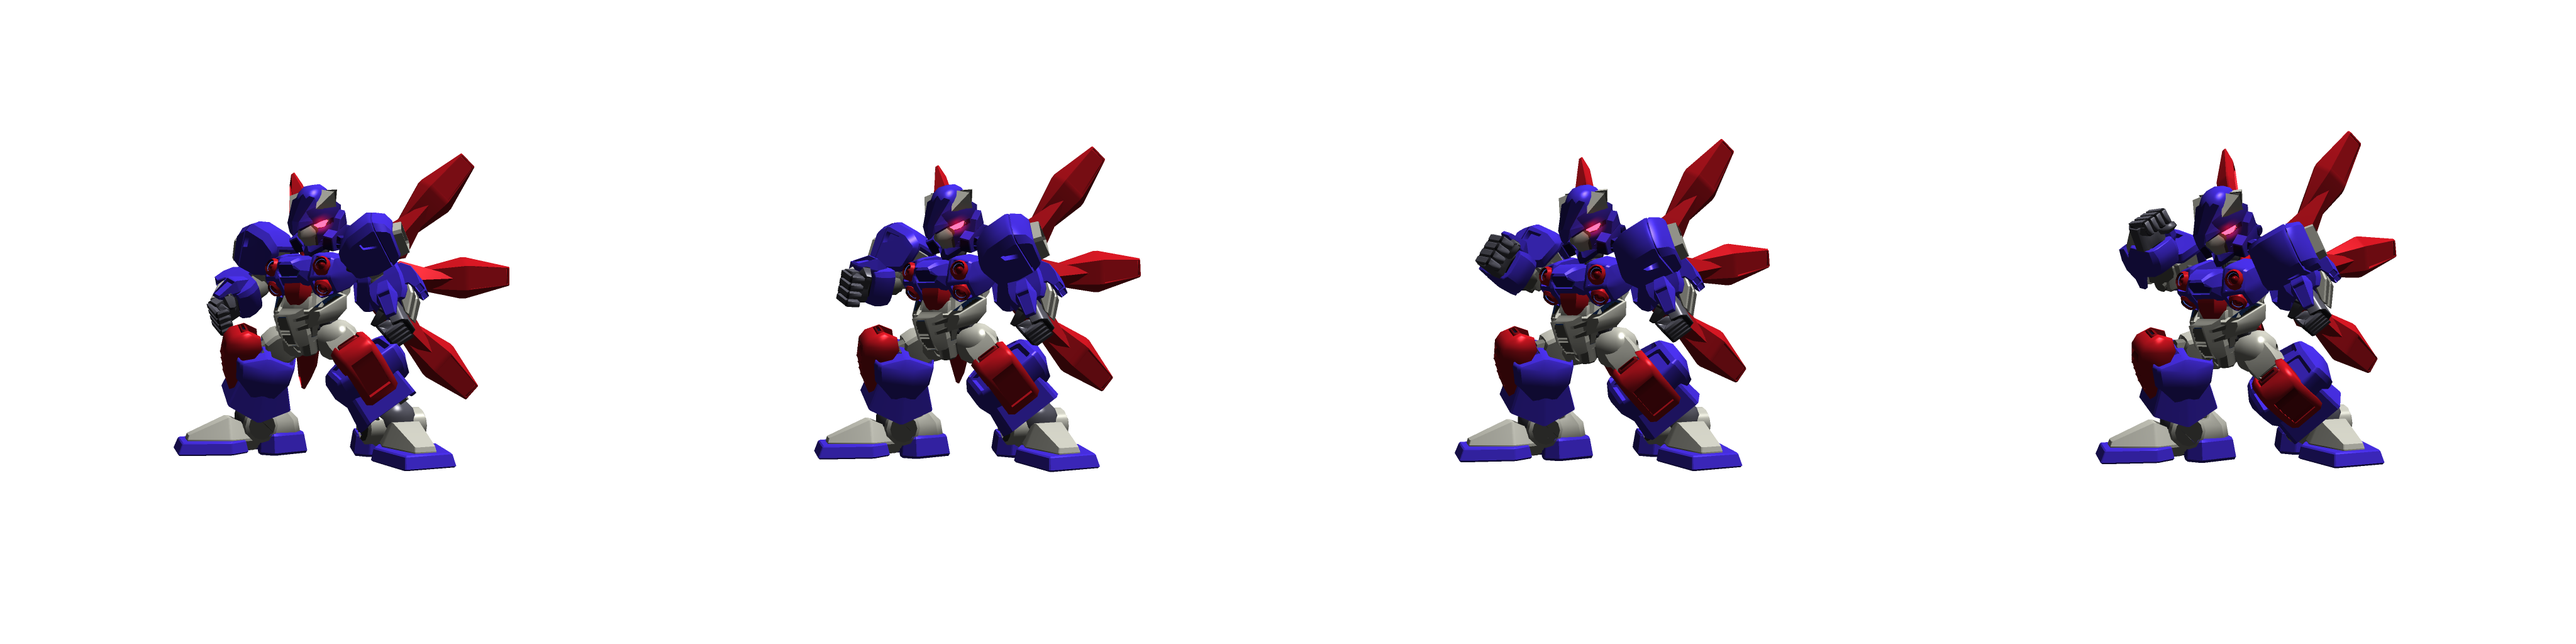
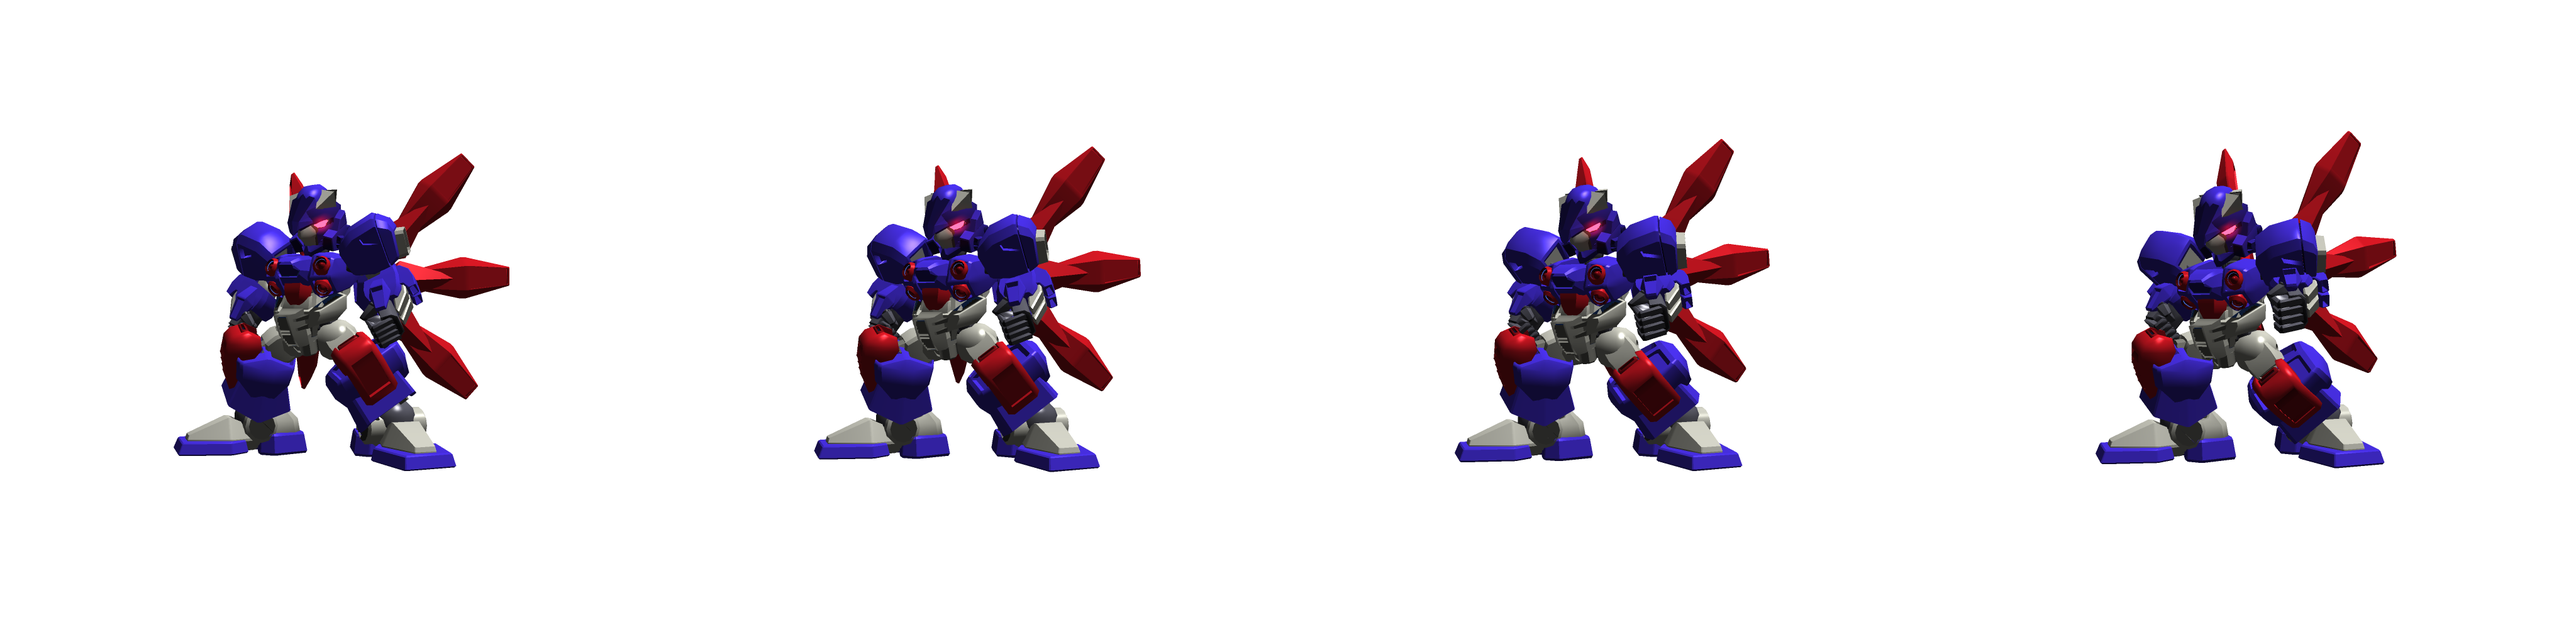
攻撃モーションを調整した

diff --git a/src/js/game/td-scenes/battle/animation/state-history/battle/attack/wing-dozer.js b/src/js/game/td-scenes/battle/animation/state-history/battle/attack/wing-dozer.js
@@ -63,19 +63,19 @@ type AttackResult = NormalHit | CriticalHit;
  * @return アニメーション
  */
 function attack(param: WingDozerBattle<AttackResult>): Animate {
-  return all(
-    param.attackerSprite.charge()
-      .chain(delay(500))
-      .chain(param.attackerSprite.upper())
-      .chain(delay(1000))
-      .chain(param.attackerSprite.upperToStand()),
+  return param.attackerSprite.charge()
+    .chain(delay(700))
+    .chain(all(
+      param.attackerSprite.upper()
+        .chain(delay(1500))
+        .chain(param.attackerSprite.upperToStand()),
 
-    delay(900)
-      .chain(all(
-        param.defenderTD.damageIndicator.popUp(param.result.damage),
-        param.defenderSprite.knockBack(),
-        param.defenderTD.hitMark.shockWave.popUp(),
-        param.defenderHUD.gauge.hp(param.defenderState.armdozer.hp)
-      ))
-  );
+      delay(100)
+        .chain(all(
+          param.defenderTD.damageIndicator.popUp(param.result.damage),
+          param.defenderSprite.knockBack(),
+          param.defenderTD.hitMark.shockWave.popUp(),
+          param.defenderHUD.gauge.hp(param.defenderState.armdozer.hp)
+        ))
+    ));
 }

diff --git a/src/js/game-object/armdozer/wing-dozer/animation/upper-to-stand.js b/src/js/game-object/armdozer/wing-dozer/animation/upper-to-stand.js
@@ -15,7 +15,7 @@ export function upperToStand(model: WingDozerModel): Animate {
   return process(() => {
     model.animation.type = 'UPPER_TO_STAND';
     model.animation.frame = 0;
-  }).chain(tween(model.animation, t => t.to({frame: 1}, 500))
+  }).chain(tween(model.animation, t => t.to({frame: 1}, 600))
   ).chain(process(() => {
     model.animation.type = 'STAND';
     model.animation.frame = 0;

diff --git a/src/js/game-object/armdozer/wing-dozer/animation/charge.js b/src/js/game-object/armdozer/wing-dozer/animation/charge.js
@@ -15,5 +15,5 @@ export function charge(model: WingDozerModel): Animate {
   return process(() => {
     model.animation.type = 'UPPER_CHARGE';
     model.animation.frame = 0;
-  }).chain(tween(model.animation, t => t.to({frame: 1}, 300)));
+  }).chain(tween(model.animation, t => t.to({frame: 1}, 200)));
 }

diff --git a/src/js/game-object/armdozer/wing-dozer/animation/upper.js b/src/js/game-object/armdozer/wing-dozer/animation/upper.js
@@ -15,5 +15,5 @@ export function upper(model: WingDozerModel): Animate {
   return process(() => {
     model.animation.type = 'UPPER_ATTACK';
     model.animation.frame = 0;
-  }).chain(tween(model.animation, t => t.to({frame: 1}, 300)));
+  }).chain(tween(model.animation, t => t.to({frame: 1}, 150)));
 }

diff --git a/src/js/game-object/armdozer/wing-dozer/mesh/upper-attack.js b/src/js/game-object/armdozer/wing-dozer/mesh/upper-attack.js
@@ -8,7 +8,7 @@ import {MESH_Y} from "./position";
 
 export const MESH_WIDTH = 600;
 export const MESH_HEIGHT = 600;
-export const MAX_ANIMATION = 4;
+export const MAX_ANIMATION = 8;
 
 /**
  * ウィングドーザ アッパー アタック

diff --git a/src/js/game-object/armdozer/wing-dozer/mesh/upper-to-stand.js b/src/js/game-object/armdozer/wing-dozer/mesh/upper-to-stand.js
@@ -8,7 +8,7 @@ import {MESH_Y} from "./position";
 
 export const MESH_WIDTH = 600;
 export const MESH_HEIGHT = 600;
-export const MAX_ANIMATION = 4;
+export const MAX_ANIMATION = 8;
 
 /**
  * ウィングドーザ アッパー -> 立ち
